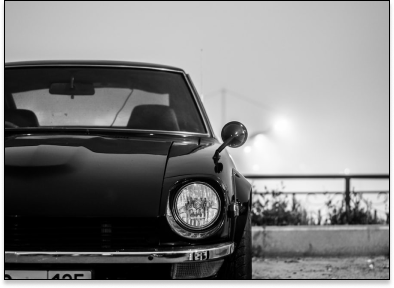
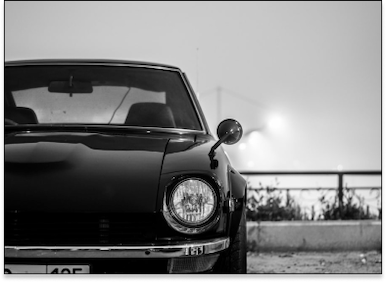
Organized grids and added footer

diff --git a/index.html b/index.html
@@ -8,6 +8,7 @@
     <link href="https://cdn.jsdelivr.net/npm/bootstrap@5.1.3/dist/css/bootstrap.min.css" rel="stylesheet" integrity="sha384-1BmE4kWBq78iYhFldvKuhfTAU6auU8tT94WrHftjDbrCEXSU1oBoqyl2QvZ6jIW3" crossorigin="anonymous">
     <link rel="stylesheet" href="styles.css">
     
+<script src="https://kit.fontawesome.com/10686f6f91.js" crossorigin="anonymous"></script>
 <link href="https://fonts.googleapis.com/css2?family=Montserrat:wght@700&family=Roboto:wght@400;700&display=swap" rel="stylesheet">
 </head>
 <body>
@@ -27,49 +28,75 @@
 </div>
 <div class="container">
     <div class="row">
-      <div class="col">
+      <div class="col-sm-auto">
         <img src="images/Rectangle 1.png" />
       </div>
-      <div class="col">
+      <div class="col-sm-auto">
         <img src="images/Rectangle 2.png" />
       </div>
-      <div class="col">
+      <div class="col-sm-auto">
         <img src="images/Rectangle 3.png" />
       </div>
     </div>
     <div class="row">
-        <div class="col">
+        <div class="col-sm-auto">
           <img src="images/Rectangle 4.png" />
         </div>
-        <div class="col">
+        <div class="col-sm-auto">
           <img src="images/Rectangle 5.png" />
         </div>
-        <div class="col">
+        <div class="col-sm-auto">
           <img src="images/Rectangle 6.png" />
         </div>
       </div>
       <div class="row">
-        <div class="col">
+        <div class="col-sm-auto">
           <img src="images/Rectangle 7.png" />
         </div>
-        <div class="col">
+        <div class="col-sm-auto">
           <img src="images/Rectangle 8.png" />
         </div>
-        <div class="col">
+        <div class="col-sm-auto">
           <img src="images/Rectangle 9.png" />
         </div>
       </div>
       <div class="row">
-        <div class="col">
+        <div class="col-sm-auto">
           <img src="images/Rectangle 10.png" />
         </div>
-        <div class="col">
+        <div class="col-sm-auto">
           <img src="images/Rectangle 11.png" />
         </div>
-        <div class="col">
+        <div class="col-sm-auto">
           <img src="images/Rectangle 12.png" />
         </div>
       </div>
   </div>
+      <div class="footer">
+      <div class="row">
+          <div class="col">
+            <h3> SheCodes</h3>
+          </div>
+          <div class="col">
+  <footer>   
+    <div class="social-links d-flex justify-content-center">
+        
+      <a class="social-links" href="https://www.instagram.com" target="_blank">
+        <i class="fab fa-instagram"></i>
+      </a>
+      <a class="social-links" href="https://facebook.com" target="_blank">
+        <i class="fab fa-facebook-square"></i>
+      </a>
+        <a class="social-links" href="https://www.linkedin.com" target="_blank">
+          <i class="fab fa-linkedin"></i>
+        </a>  
+      </div>
+  </footer>
+       </div>
+  <div class="col">
+    <h4>2021 Code by Inna Kyfor</h4>
+  </div>
+     </div>
+ </div>
 </body>
 </html>

diff --git a/styles.css b/styles.css
@@ -10,7 +10,9 @@ body {
     background-repeat: no-repeat;
     background-size: cover;
 }
-
+h1, h2, h3, h4, p, a {
+    text-align: center;
+}
 h1 {
     font-size: 72px;
     font-weight: bold;
@@ -22,9 +24,14 @@ h2 {
     letter-spacing: 0.1em;
     line-height: 28px;
 }
+h4 {
+    font-size: 14px;
+    padding-top: 15px;
+}
 p {
     font-style: normal;
     font-size: 18px;
+    line-height: 30px;
 }
 a {
 font-family: 'Montserrat', sans-serif;
@@ -32,24 +39,45 @@ font-size: 14px;
 color: black;
 text-decoration: none;
 }
-h1, h2, p, a {
-    text-align: center;
-}
+button {
+    padding: 18px 40px;
+    background-color: white;
+    border: solid 1px white;
+    border-radius: 50px;
+ }
+ 
 .main-content {
-    text-align: center;
+    width: 594px;
+    height: 329px;
+    margin: auto;
+   text-align: center;
    padding-top: 273px;
 }
-button {
-   padding: 18px 40px;
-   background-color: white;
-   border: solid 1px white;
-   border-radius: 50px;
-}
-img {
-    width: 300px;
-    height: 200px;
-}
 .row {
-    display: flex;
-    justify-content: space-evenly;
+    padding: 0;
+    margin: 40px;
+    
 }
+
+.social-links {
+    color: white;
+    padding: 0 30px;
+    font-size: 22px;
+}
+@media  (max-width: 600px) {
+       h1 {
+           font-size: 40px;
+       }
+       p {
+           font-size: 12px;
+       }
+       img {
+           width: 100%;
+           padding: 10px;
+           text-align: center;
+           float: none;
+       }
+     .main-content {
+         width: 300px;
+     }
+    }
